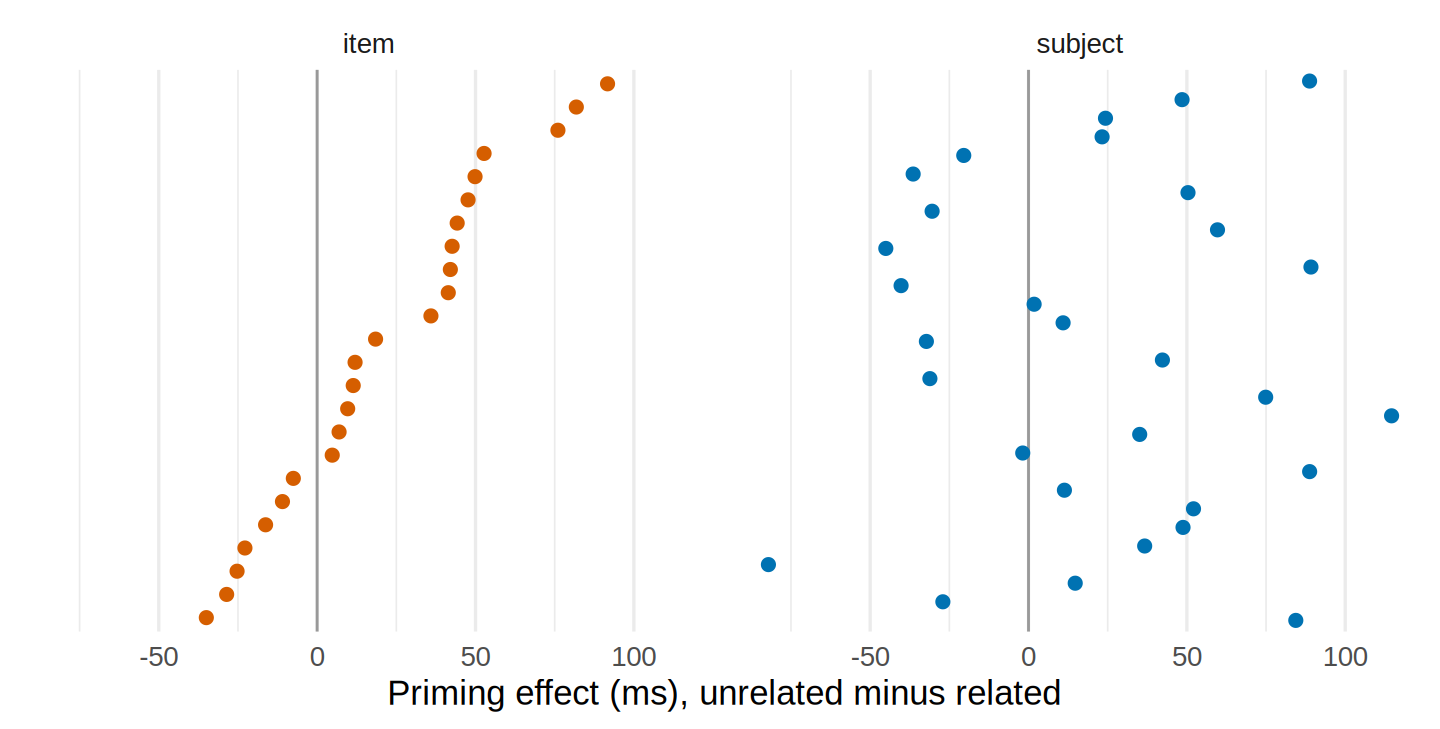
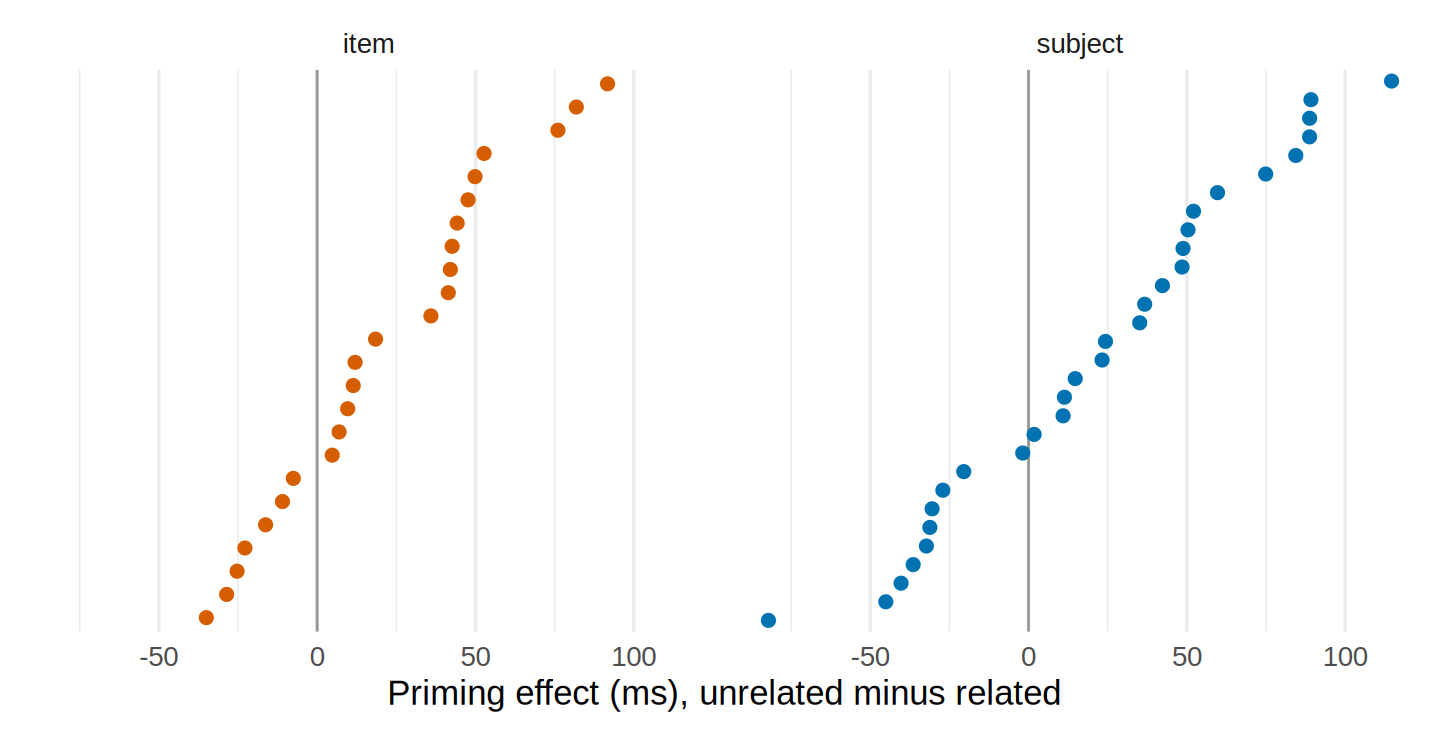
Correct claims and alt text in the package posts after review
Fix a plot ordering bug, state the parameter recovery in standard errors,
show which checklist items move, and describe each figure as drawn.

Claude-Session: https://claude.ai/code/session_0185sZCyDmPWXaZ9KgJ2r5cV

diff --git a/content/post/scopusflow-a-literature-search-you-can-rerun/index.en.html b/content/post/scopusflow-a-literature-search-you-can-rerun/index.en.html
@@ -33,7 +33,7 @@ projects: []
 
 
 <p>Most literature searches are run twice. The first time, someone types a query into the Scopus website, exports a spreadsheet and starts screening. Months later a reviewer asks for the exact query, the date, the number of records returned by each database and the number of duplicates removed, and nobody can produce them, because nothing in the export records how it was made. Repeating the search through the application programming interface (API) has its own difficulties. Elsevier charges a weekly quota per request, offset paging stops at record 5,000, a large harvest interrupted at page 40 has to start again and the records arrive in a nested format that every laboratory reshapes in its own way.</p>
-<p>I wrote the first version of the code behind this post as a set of scripts extending the rscopus package, which I <a href="/2024/rscopus-plus-an-extension-of-the-rscopus-package/">described in 2024</a>. The scripts grew into scopusflow, a package that separates describing a search from running it and that ships in two versions, one for R and one for Python, tested against the same fixtures. Nothing below contacts Elsevier, and no key is needed. Scopus records may not be redistributed, so the package bundles a complete harvest of 138 real journal articles on graphene supercapacitors, retrieved from OpenAlex in the format the package returns, and its test suite runs the harvest functions against a stand-in server that answers the package’s own requests from that corpus. The post uses the same device, so that every number in it comes from code that actually ran. Where the live API would be needed, the call is shown but not run, and a live example is in the companion post on <a href="/2026/speculation-across-various-scientific-topics/">speculation across scientific topics</a>, whose searches this package now performs.</p>
+<p>I wrote the first version of the code behind this post as a set of scripts extending the rscopus package, which I <a href="/2024/rscopus-plus-an-extension-of-the-rscopus-package/">described in 2024</a>. The scripts grew into scopusflow, a package that separates describing a search from running it and that ships in two versions, one for R and one for Python, tested against the same fixtures. Nothing below contacts Elsevier, and no key is needed. Scopus records may not be redistributed, so the package bundles a complete harvest of 138 real publication records on graphene supercapacitors, retrieved from OpenAlex in the format the package returns, and its test suite runs the harvest functions against a stand-in server that answers the package’s own requests from that corpus. The post uses the same device, so that every number in it comes from code that actually ran. Where the live API would be needed, the call is shown but not run, and a live example is in the companion post on <a href="/2026/speculation-across-various-scientific-topics/">speculation across scientific topics</a>, whose searches this package now performs.</p>
 <pre class="r"><code>library(scopusflow)
 packageVersion(&#39;scopusflow&#39;)</code></pre>
 <pre><code>#&gt; [1] &#39;0.4.0&#39;</code></pre>
@@ -128,7 +128,7 @@ n</code></pre>
 })
 records</code></pre>
 <pre><code>#&gt; &lt;scopus_records&gt; 138 records
-#&gt; retrieved: 2026-09-02 13:19:22 UTC (scopusflow 0.4.0)
+#&gt; retrieved: 2026-09-02 13:53:31 UTC (scopusflow 0.4.0)
 #&gt; query: &quot;TITLE-ABS-KEY(graphene supercapacitor)&quot;
 #&gt; # A tibble: 138 × 9
 #&gt;    entry_number scopus_id doi              title authors  year date  publication citations
@@ -281,7 +281,7 @@ nrow(merged)</code></pre>
                         field = &#39;TITLE-ABS-KEY&#39;)
 })
 plot_scopus_trend(trend)</code></pre>
-<p><img src="{{< blogdown/postref >}}index.en_files/figure-html/unnamed-chunk-14-1.png" alt="Bar chart of the number of graphene supercapacitor records per year from 2015 to 2024 in the bundled corpus" width="672" style="display: block; margin: auto;" /></p>
+<p><img src="{{< blogdown/postref >}}index.en_files/figure-html/unnamed-chunk-14-1.png" alt="Line chart with a shaded area of the number of graphene supercapacitor records per year from 2015 to 2024 in the bundled corpus" width="672" style="display: block; margin: auto;" /></p>
 <pre class="r"><code>httr2::with_mocked_responses(stand_in$handler, {
   shares &lt;- scopus_compare_topics(
     reference_query  = &#39;graphene supercapacitor&#39;,
@@ -290,8 +290,8 @@ plot_scopus_trend(trend)</code></pre>
     field            = &#39;TITLE-ABS-KEY&#39;)
 })
 plot_scopus_comparison(shares, highlight = &#39;flexible&#39;)</code></pre>
-<p><img src="{{< blogdown/postref >}}index.en_files/figure-html/unnamed-chunk-15-1.png" alt="Line chart of the yearly share of graphene supercapacitor records whose titles mention flexible, laser or nitrogen, with direct labels at the right end and shaded stability bands" width="768" style="display: block; margin: auto;" /></p>
-<p>The shaded band is a Wilson interval and the function’s documentation calls it an illustrative stability range rather than a confidence interval, since the API returns exact counts and nothing in them is sampled. A live comparison costs one request per term per year plus one per year for the reference, which for the nine topics and 47 years of the companion post comes to 846 requests, well within a weekly quota. The intersection of concepts is counted the same way, one request per row.</p>
+<p><img src="{{< blogdown/postref >}}index.en_files/figure-html/unnamed-chunk-15-1.png" alt="Line chart of the yearly share of graphene supercapacitor records whose titles mention flexible, laser or nitrogen, with a direct label at the right end and a shaded stability band on the highlighted series and the other two drawn in grey" width="768" style="display: block; margin: auto;" /></p>
+<p>The shaded band is a Wilson interval and the function’s documentation calls it an illustrative stability range rather than a confidence interval, since the API returns exact counts and nothing in them is sampled. A live comparison costs, for each topic, one request per year for its reference literature and one per year for the comparison term, which for the nine topics and 47 years of the companion post comes to 846 requests, well within a weekly quota. The intersection of concepts is counted the same way, one request per row.</p>
 <pre class="r"><code>httr2::with_mocked_responses(stand_in$handler, {
   sets &lt;- scopus_intersections(
     concepts = c(&#39;graphene supercapacitor&#39; = &#39;graphene supercapacitor&#39;,
@@ -311,7 +311,7 @@ sets</code></pre>
 #&gt; 4 graphene supercapacitor × flexible (TITLE-ABS-KEY(graphene su…    19 inte…     2 graphe…
 #&gt; 5 flexible × laser                   (TITLE-ABS-KEY(flexible)) …     3 inte…     2 flexib…</code></pre>
 <pre class="r"><code>plot_scopus_intersections(sets, highlight = paste(&#39;flexible&#39;, intToUtf8(215L), &#39;laser&#39;))</code></pre>
-<p><img src="{{< blogdown/postref >}}index.en_files/figure-html/unnamed-chunk-16-1.png" alt="Horizontal bar chart on a logarithmic axis of the number of records matching graphene supercapacitor, flexible and laser, and of their intersections" width="672" style="display: block; margin: auto;" /></p>
+<p><img src="{{< blogdown/postref >}}index.en_files/figure-html/unnamed-chunk-16-1.png" alt="Lollipop chart on a logarithmic axis of the number of records matching graphene supercapacitor, flexible and laser, and of their intersections" width="672" style="display: block; margin: auto;" /></p>
 </div>
 <div id="leaving-the-package" class="section level2">
 <h2>Leaving the package</h2>
@@ -355,7 +355,7 @@ c(rds_keeps_time = !is.null(attr(read_scopus_records(rds), &#39;retrieved_at&#39
 </div>
 <div id="the-write-up" class="section level2">
 <h2>The write-up</h2>
-<p>The search record is produced from the objects alone. The plan, the per-cell accounting, the retrieval time, the package version and the paging mode all travelled with the harvest, so nothing is typed in by hand. The record below names Scopus as the database and gives a reset time from the stand-in’s headers, because the objects it reads were produced by the stand-in. On a live harvest both would be the real ones. Of the 16 PRISMA-S items, a harvest supplies five and a merge a sixth, and the remaining ten, such as the databases searched and the limits applied, are listed as the author’s to write.</p>
+<p>The search record is produced from the objects alone. The plan, the per-cell accounting, the retrieval time, the package version and the paging mode all travelled with the harvest, so nothing is typed in by hand. The record below names Scopus as the database and dates the search to the moment this page was rendered, because the objects it reads were produced by the stand-in. On a live harvest both would describe the real search. Of the 16 PRISMA-S items, a harvest supplies five and a merge a sixth, and the remaining ten, such as any citation searching and any peer review of the strategy, are listed as the author’s to write.</p>
 <pre class="r"><code>report &lt;- scopus_search_report(records)
 report</code></pre>
 <pre><code>#&gt; Search strategy record (PRISMA-S)
@@ -368,7 +368,7 @@ report</code></pre>
 #&gt; View: STANDARD
 #&gt; Page size: 200 records per request
 #&gt; Paging: offset
-#&gt; Date searched: 2026-09-02 13:19:22 UTC
+#&gt; Date searched: 2026-09-02 13:53:31 UTC
 #&gt; Software: scopusflow 0.4.0
 #&gt; Records retrieved: 138
 #&gt; Records reported as matching: 138
@@ -396,7 +396,7 @@ report</code></pre>
 #&gt;   1 Database name. Scopus, searched on the Elsevier Scopus Search API.
 #&gt;   8 Full search strategies. The search expression, field tag and year limit of every cell, as the plan sends them.
 #&gt;   9 Limits and restrictions. Publication years 2015 to 2024. scopusflow applies no document type, language or subject area limit of its own.
-#&gt;   13 Dates of searches. 2026-09-02 13:19:22 UTC.
+#&gt;   13 Dates of searches. 2026-09-02 13:53:31 UTC.
 #&gt;   15 Total records. 138 records retrieved from Scopus, of 138 the API reported as matching.
 #&gt; 
 #&gt; PRISMA-S items only you can supply

diff --git a/content/post/pilotr-pilot-the-study-before-running-it/index.en.html b/content/post/pilotr-pilot-the-study-before-running-it/index.en.html
@@ -102,7 +102,10 @@ dim(pilot)</code></pre>
   data.frame(unit = unit, id = rownames(m), effect_ms = m[, &#39;unrelated&#39;] - m[, &#39;related&#39;])
 }
 effs &lt;- rbind(unit_effects(&#39;subject&#39;), unit_effects(&#39;item&#39;))
-effs$id &lt;- factor(effs$id, levels = unique(effs$id[order(effs$unit, effs$effect_ms)]))
+# Subject and item identifiers both run from 1, so they are prefixed before
+# being ordered by effect size, or the levels of one unit would order the other.
+effs$id &lt;- paste(effs$unit, effs$id)
+effs$id &lt;- factor(effs$id, levels = effs$id[order(effs$unit, effs$effect_ms)])
 ggplot(effs, aes(effect_ms, id, colour = unit)) +
   geom_vline(xintercept = 0, colour = &#39;grey60&#39;) +
   geom_point(size = 2) +
@@ -111,7 +114,7 @@ ggplot(effs, aes(effect_ms, id, colour = unit)) +
   labs(x = &#39;Priming effect (ms), unrelated minus related&#39;, y = NULL) +
   theme_minimal(base_size = 13) +
   theme(axis.text.y = element_blank(), panel.grid.major.y = element_blank())</code></pre>
-<p><img src="{{< blogdown/postref >}}index.en_files/figure-html/unnamed-chunk-6-1.png" alt="Dot plots of the priming effect in milliseconds for each participant and for each item, sorted, spread on both sides of zero" width="720" style="display: block; margin: auto;" /></p>
+<p><img src="{{< blogdown/postref >}}index.en_files/figure-html/unnamed-chunk-6-1.png" alt="Dot plots of the priming effect in milliseconds for each participant and for each item, each panel sorted by effect size, spread on both sides of zero" width="720" style="display: block; margin: auto;" /></p>
 </div>
 <div id="the-anatomy-of-the-design" class="section level2">
 <h2>The anatomy of the design</h2>
@@ -122,7 +125,7 @@ ggplot(effs, aes(effect_ms, id, colour = unit)) +
 <pre class="r"><code>model_formula(spec)</code></pre>
 <pre><code>#&gt; .y ~ prime + z_freq + z_vocab + prime_z_vocab + (1 + prime | 
 #&gt;     subject) + (1 + prime | item)</code></pre>
-<p>Whether a simulation recovers the parameters that went into it is the check that DeBruine and Barr (2021) recommend before trusting a power analysis. One large simulated study, fitted with the implied model, returns the fixed effects below alongside their standard errors. The two vocabulary terms are attenuated, since the specification measures vocabulary with a reliability of 0.8, and the intercept and the priming effect are recovered closely.</p>
+<p>Whether a simulation recovers the parameters that went into it is the check that DeBruine and Barr (2021) recommend before trusting a power analysis. One large simulated study, fitted with the implied model, returns the fixed effects below alongside their standard errors and the distance of each estimate from the value that was specified.</p>
 <pre class="r"><code>big &lt;- spec
 big$units$subject$n &lt;- 80
 big$units$item$n &lt;- 60
@@ -131,15 +134,18 @@ fit &lt;- suppressMessages(lmerTest::lmer(
   control = lme4::lmerControl(calc.derivs = FALSE)))
 truth &lt;- c(`(Intercept)` = 6, prime = 0.05, z_freq = -0.03, z_vocab = -0.02,
            prime_z_vocab = 0.02)
-data.frame(specified = truth,
-           recovered = round(lme4::fixef(fit)[names(truth)], 4),
-           se = round(sqrt(diag(as.matrix(vcov(fit))))[names(truth)], 4))</code></pre>
-<pre><code>#&gt;               specified recovered     se
-#&gt; (Intercept)        6.00    5.9986 0.0175
-#&gt; prime              0.05    0.0608 0.0081
-#&gt; z_freq            -0.03   -0.0319 0.0092
-#&gt; z_vocab           -0.02   -0.0072 0.0156
-#&gt; prime_z_vocab      0.02    0.0084 0.0083</code></pre>
+est &lt;- lme4::fixef(fit)[names(truth)]
+se  &lt;- sqrt(diag(as.matrix(vcov(fit))))[names(truth)]
+data.frame(specified = truth, recovered = round(est, 4), se = round(se, 4),
+           # Distance from the specified value, in standard errors.
+           z = round((est - truth) / se, 2))</code></pre>
+<pre><code>#&gt;               specified recovered     se     z
+#&gt; (Intercept)        6.00    5.9986 0.0175 -0.08
+#&gt; prime              0.05    0.0608 0.0081  1.33
+#&gt; z_freq            -0.03   -0.0319 0.0092 -0.20
+#&gt; z_vocab           -0.02   -0.0072 0.0156  0.82
+#&gt; prime_z_vocab      0.02    0.0084 0.0083 -1.41</code></pre>
+<p>The two vocabulary terms come out smaller in magnitude than specified, the direction that measuring vocabulary with a reliability of 0.8 predicts. A single replicate cannot separate that attenuation from sampling noise, though, since the largest distance in the last column is 1.41 standard errors and every estimate is therefore consistent with the value it was given.</p>
 <p>The reverse direction is how a real pilot seeds a power analysis: a specification is read off a fitted model and scaled to the planned sample.</p>
 <pre class="r"><code>from_fit &lt;- spec_from_model(fit, name = &#39;from_pilot_fit&#39;, n_subject = 60, n_item = 40,
                             family = list(family = &#39;shifted_lognormal&#39;, shift = 200),
@@ -163,7 +169,7 @@ pw</code></pre>
 #&gt;         z_freq -0.03  0.36 0.068 [0.241, 0.499]    18  0.000  1.625
 #&gt;        z_vocab -0.02  0.12 0.046 [0.056, 0.238]     6  0.167  2.418
 #&gt;  prime_z_vocab  0.02  0.20 0.057 [0.112, 0.330]    10  0.000  2.275</code></pre>
-<p>With 30 participants and 24 items, the maximal model is richer than the design supports, and many replicates end in a boundary fit. The priming effect has reasonable power. The interaction with vocabulary, which is what a researcher would most want to claim, does not, and the estimates of it that would reach significance are exaggerated by a factor of two or more. A sweep over effect sizes, with a null condition, shows the false-positive rate of the planned analysis and how the exaggeration recedes as power grows. The base coefficients are carried along explicitly, since the sweep replaces the block of coefficients as a whole.</p>
+<p>With 30 participants and 24 items, the maximal model is richer than the design supports, and many replicates end in a boundary fit, the situation in which Matuschek et al. (2017) show that the cost in power outweighs the protection against Type I error. The priming effect has reasonable power. The interaction with vocabulary, which is what a researcher would most want to claim, does not, and the estimates of it that would reach significance are exaggerated by a factor of two or more. A sweep over effect sizes, with a null condition, shows the false-positive rate of the planned analysis and how the exaggeration recedes as power grows. The base coefficients are carried along explicitly, since the sweep replaces the block of coefficients as a whole.</p>
 <pre class="r"><code>grid &lt;- design_conditions(prime = c(0.03, 0.05, 0.08), .null = TRUE,
                           .base = list(z_freq = -0.03, z_vocab = -0.02,
                                        `prime:z_vocab` = 0.02))

diff --git a/content/post/depictr-one-visual-language-from-first-look-to-final-figure/index.en.html b/content/post/depictr-one-visual-language-from-first-look-to-final-figure/index.en.html
@@ -153,11 +153,11 @@ pc</code></pre>
 </div>
 <div id="diagnostics-that-match-the-model-class" class="section level2">
 <h2>Diagnostics that match the model class</h2>
-<p>The diagnostics function recognises the class of the model. For a binomial model of accuracy, it draws binned residuals (Gelman &amp; Hill, 2007) and a quantile-quantile plot of randomised quantile residuals (Dunn &amp; Smyth, 1996), with a seed so that the randomisation is reproducible, in place of the panels that suit a linear model.</p>
+<p>The diagnostics function recognises the class of the model. For a binomial model of accuracy, it draws binned residuals (Gelman &amp; Hill, 2007) and a quantile-quantile plot of randomised quantile residuals (Dunn &amp; Smyth, 1996), with a seed so that the randomisation is reproducible, in place of the residuals-versus-fitted and ordinary quantile-quantile panels that suit a linear model. The scale-location and leverage panels are kept.</p>
 <pre class="r"><code>gfit &lt;- glm(accuracy ~ word_frequency + condition + modality,
             data = lexical_decision, family = binomial)
 residual_diagnostics_plot(gfit, seed = 1, title = &#39;Accuracy model: GLM diagnostics&#39;)</code></pre>
-<p><img src="{{< blogdown/postref >}}index.en_files/figure-html/unnamed-chunk-15-1.png" alt="Four diagnostic panels for a binomial model of accuracy, including binned residuals and a quantile-quantile plot of randomised quantile residuals" width="672" style="display: block; margin: auto;" /></p>
+<p><img src="{{< blogdown/postref >}}index.en_files/figure-html/unnamed-chunk-15-1.png" alt="Four diagnostic panels for a binomial model of accuracy: binned residuals, a quantile-quantile plot of randomised quantile residuals, scale-location and residuals against leverage" width="672" style="display: block; margin: auto;" /></p>
 </div>
 <div id="the-audit" class="section level2">
 <h2>The audit</h2>
@@ -208,7 +208,7 @@ check_figure(p_density)</code></pre>
 #&gt; 7                          Lowest-contrast text #4d4d4d on #ffffff.
 #&gt; 8                        Lowest-contrast colour #e69f00 on #ffffff.
 #&gt; 9                            Colour alone distinguishes the groups.</code></pre>
-<p>Two rows fail on the default two-colour density. The orange sits at a contrast of about 2.25 to 1 against white, where the guideline for graphical objects asks for 3 to 1, and colour alone distinguishes the conditions. Both are corrected in one line, by swapping in the darker vermillion and adding line type as a redundant channel, since the plot is an ordinary ggplot2 object. Text drawn for a 17.8 cm figure arrives at half its size in an 8.9 cm journal column, and the check can be run at that width.</p>
+<p>Two rows fail on the default two-colour density. The orange sits at a contrast of about 2.25 to 1 against white, where the guideline for graphical objects asks for 3 to 1, and colour alone distinguishes the conditions. Both are corrected by swapping in the darker vermillion and adding line type as a redundant channel, shown here on the cumulative distribution, since these plots are ordinary ggplot2 objects. Text drawn for a 17.8 cm figure arrives at half its size in an 8.9 cm journal column, and the check can be run at that width.</p>
 <pre class="r"><code>p_mended &lt;- ecdf_plot(lexical_decision, RT, group = condition,
                       palette = c(&#39;#005b96&#39;, &#39;#d55e00&#39;), legend_inside = TRUE,
                       title = &#39;Corrected: darker vermillion, with line type as a second channel&#39;) +
@@ -230,7 +230,7 @@ check_figure(p_mended)[, c(&#39;check&#39;, &#39;measured&#39;, &#39;threshold&#
 #&gt;                                                             detail
 #&gt; 6 Smallest text 8.80 pt, drawn at 17.78 cm and printed at 8.90 cm.</code></pre>
 <pre class="r"><code>p_mended</code></pre>
-<p><img src="{{< blogdown/postref >}}index.en_files/figure-html/unnamed-chunk-19-1.png" alt="Empirical cumulative distributions by priming condition in blue and vermillion with different line types, the mended version of the earlier figure" width="672" style="display: block; margin: auto;" /></p>
+<p><img src="{{< blogdown/postref >}}index.en_files/figure-html/unnamed-chunk-19-1.png" alt="Empirical cumulative distributions by priming condition in blue and vermillion with different line types, carrying the two corrections that the density figure failed on" width="672" style="display: block; margin: auto;" /></p>
 <p>The documentation states the limit of the guarantee beside the claim. The eight colours pass every colour-vision check, and the closest pair in greyscale, the orange and the sky blue, differ by about one unit of CIE lightness, so a figure that may be printed in black and white needs a second channel as well.</p>
 </div>
 <div id="composition-and-the-python-twin" class="section level2">

diff --git a/content/post/theoryforge-a-theory-you-can-check/index.en.html b/content/post/theoryforge-a-theory-you-can-check/index.en.html
@@ -322,9 +322,19 @@ str(tf_appraise_amendment(switching_v2, switching))</code></pre>
 <pre class="r"><code>c(v1 = rep$aggregate_score, v2 = tf_check(switching_v2)$aggregate_score)</code></pre>
 <pre><code>#&gt;   v1   v2 
 #&gt; 85.1 82.8</code></pre>
-<pre class="r"><code>tf_check(switching_v2)$items[[3]]$score   # risk_severity, the item that moved</code></pre>
-<pre><code>#&gt; [1] 0.59</code></pre>
-<p>The rigour score falls slightly from the first version to the second, because the new prediction is directional and its severity of 0.5 sits below the mean of the four predictions it joins. A theory that gains content can therefore lose a point on a checklist item, which is a reminder that the score measures how completely a theory is specified and not how good it is. Every builder verb logs a provenance entry, so the history of the document records who changed what and when, and the version block records the lineage.</p>
+<pre class="r"><code># Every checklist item whose score changed, and what each change costs the total.
+item_scores &lt;- function(x) vapply(tf_check(x)$items, function(i) i$score, numeric(1))
+item_names  &lt;- vapply(tf_check(switching)$items, function(i) i$id, character(1))
+item_weight &lt;- vapply(tf_check(switching)$items, function(i) i$weight, numeric(1))
+moved &lt;- data.frame(item = item_names, weight = item_weight,
+                    v1 = item_scores(switching), v2 = item_scores(switching_v2))
+moved$points &lt;- round(100 * moved$weight * (moved$v2 - moved$v1), 2)
+moved[moved$v1 != moved$v2, ]</code></pre>
+<pre><code>#&gt;             item weight    v1   v2 points
+#&gt; 2      precision   0.10 0.750 0.60  -1.50
+#&gt; 3  risk_severity   0.10 0.613 0.59  -0.23
+#&gt; 10 diagnosticity   0.06 0.500 0.40  -0.60</code></pre>
+<p>The rigour score falls slightly from the first version to the second, and the table shows where. Several items are ratios over the set of predictions, so a fifth prediction that is directional, and whose severity of 0.5 sits below the mean of the four it joins, moves each of them down a little. A theory that gains content can therefore lose points on a checklist, which is a reminder that the score measures how completely a theory is specified and not how good it is. Every builder verb logs a provenance entry, so the history of the document records who changed what and when, and the version block records the lineage.</p>
 <pre class="r"><code>tail(do.call(rbind, lapply(switching_v2$provenance, as.data.frame)), 2)</code></pre>
 <pre><code>#&gt;   step            action
 #&gt; 3    3        tf_predict

diff --git a/content/post/lexsync-from-corpus-to-eeg-ready-experiment/index.en.html b/content/post/lexsync-from-corpus-to-eeg-ready-experiment/index.en.html
@@ -81,7 +81,7 @@ nrow(pool)</code></pre>
 <pre class="r"><code>sapply(design_freq$conditions,
        function(cnd) nrow(build_pool(pool, cnd$define_by)))</code></pre>
 <pre><code>#&gt; [1]  71 480</code></pre>
-<p>The high-frequency band is the scarce side, with 71 candidates against 480, which the datasheet will later record as the discretionary pool.</p>
+<p>The high-frequency band is the scarce side, with 71 candidates against 480, and it is the scarcer band that limits how closely the two conditions can be matched.</p>
 </div>
 <div id="matching-on-three-dimensions-at-once" class="section level2">
 <h2>Matching on three dimensions at once</h2>
